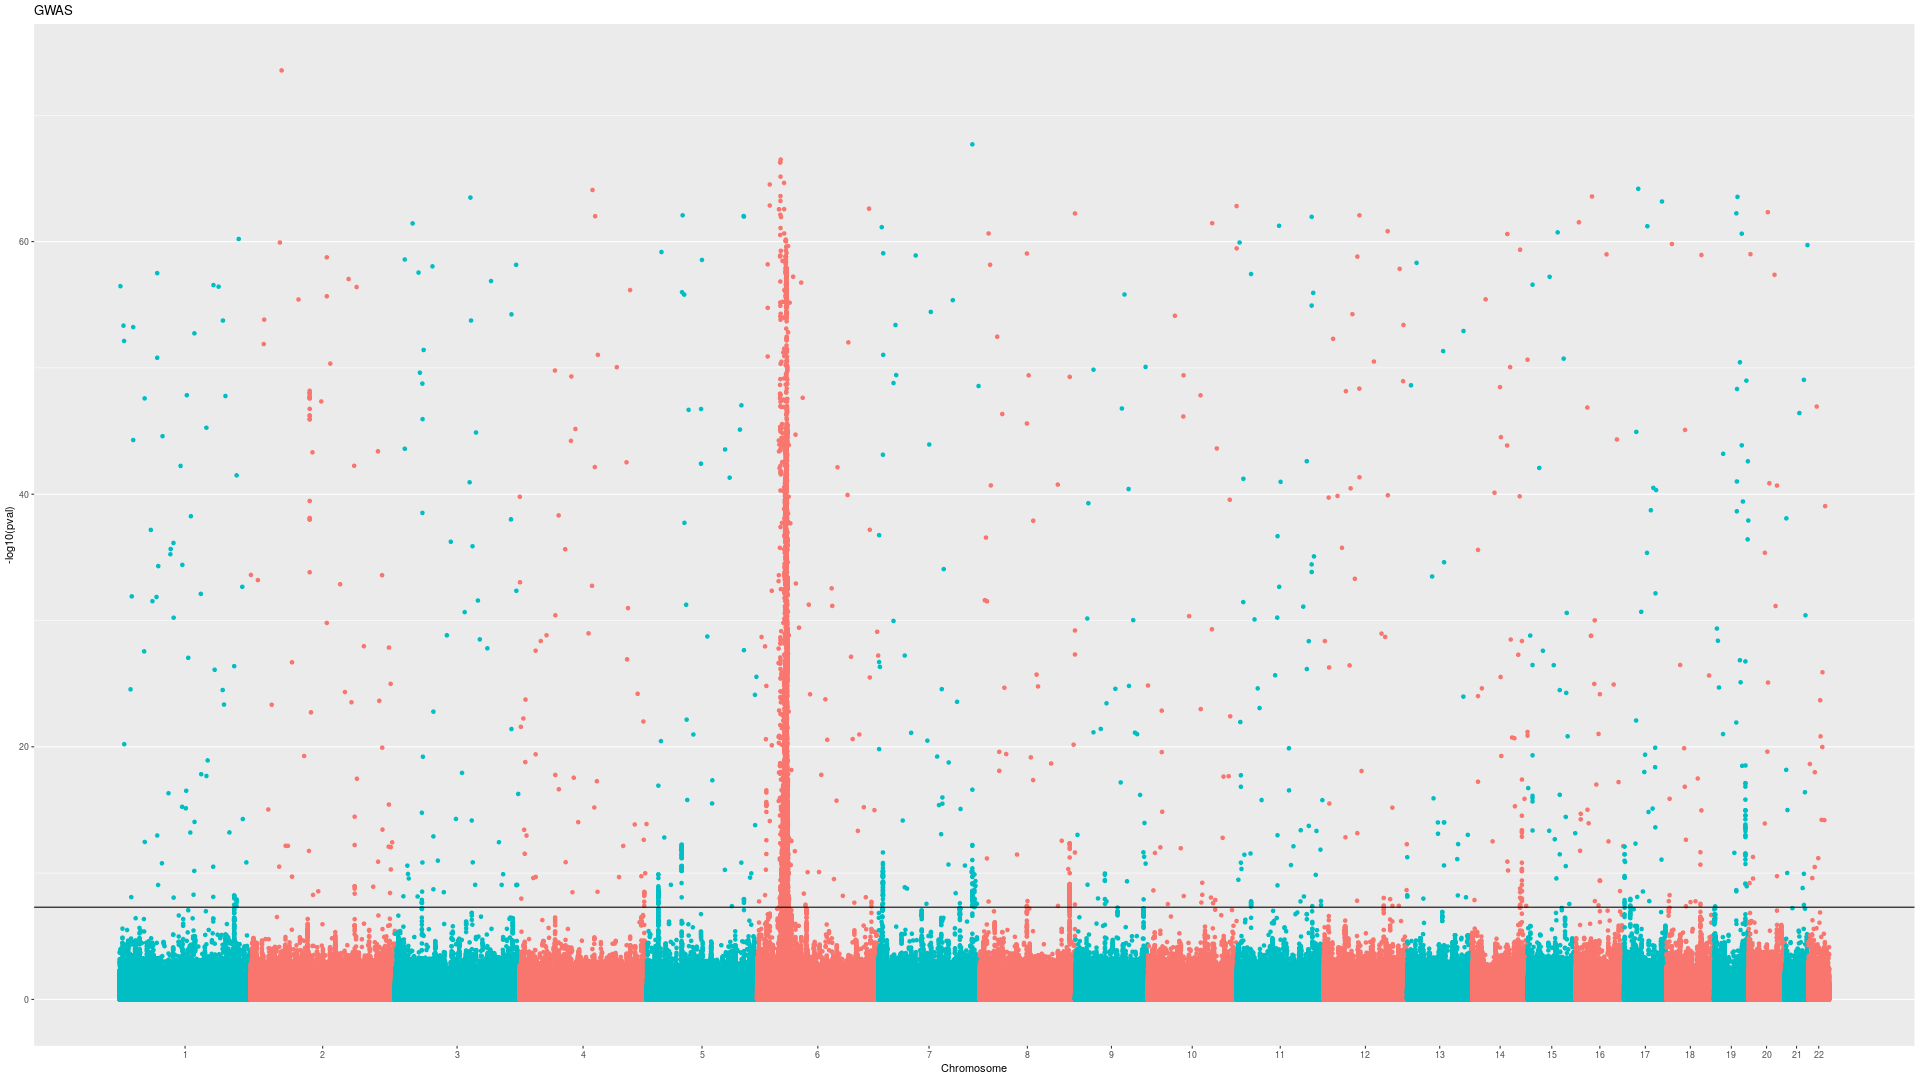
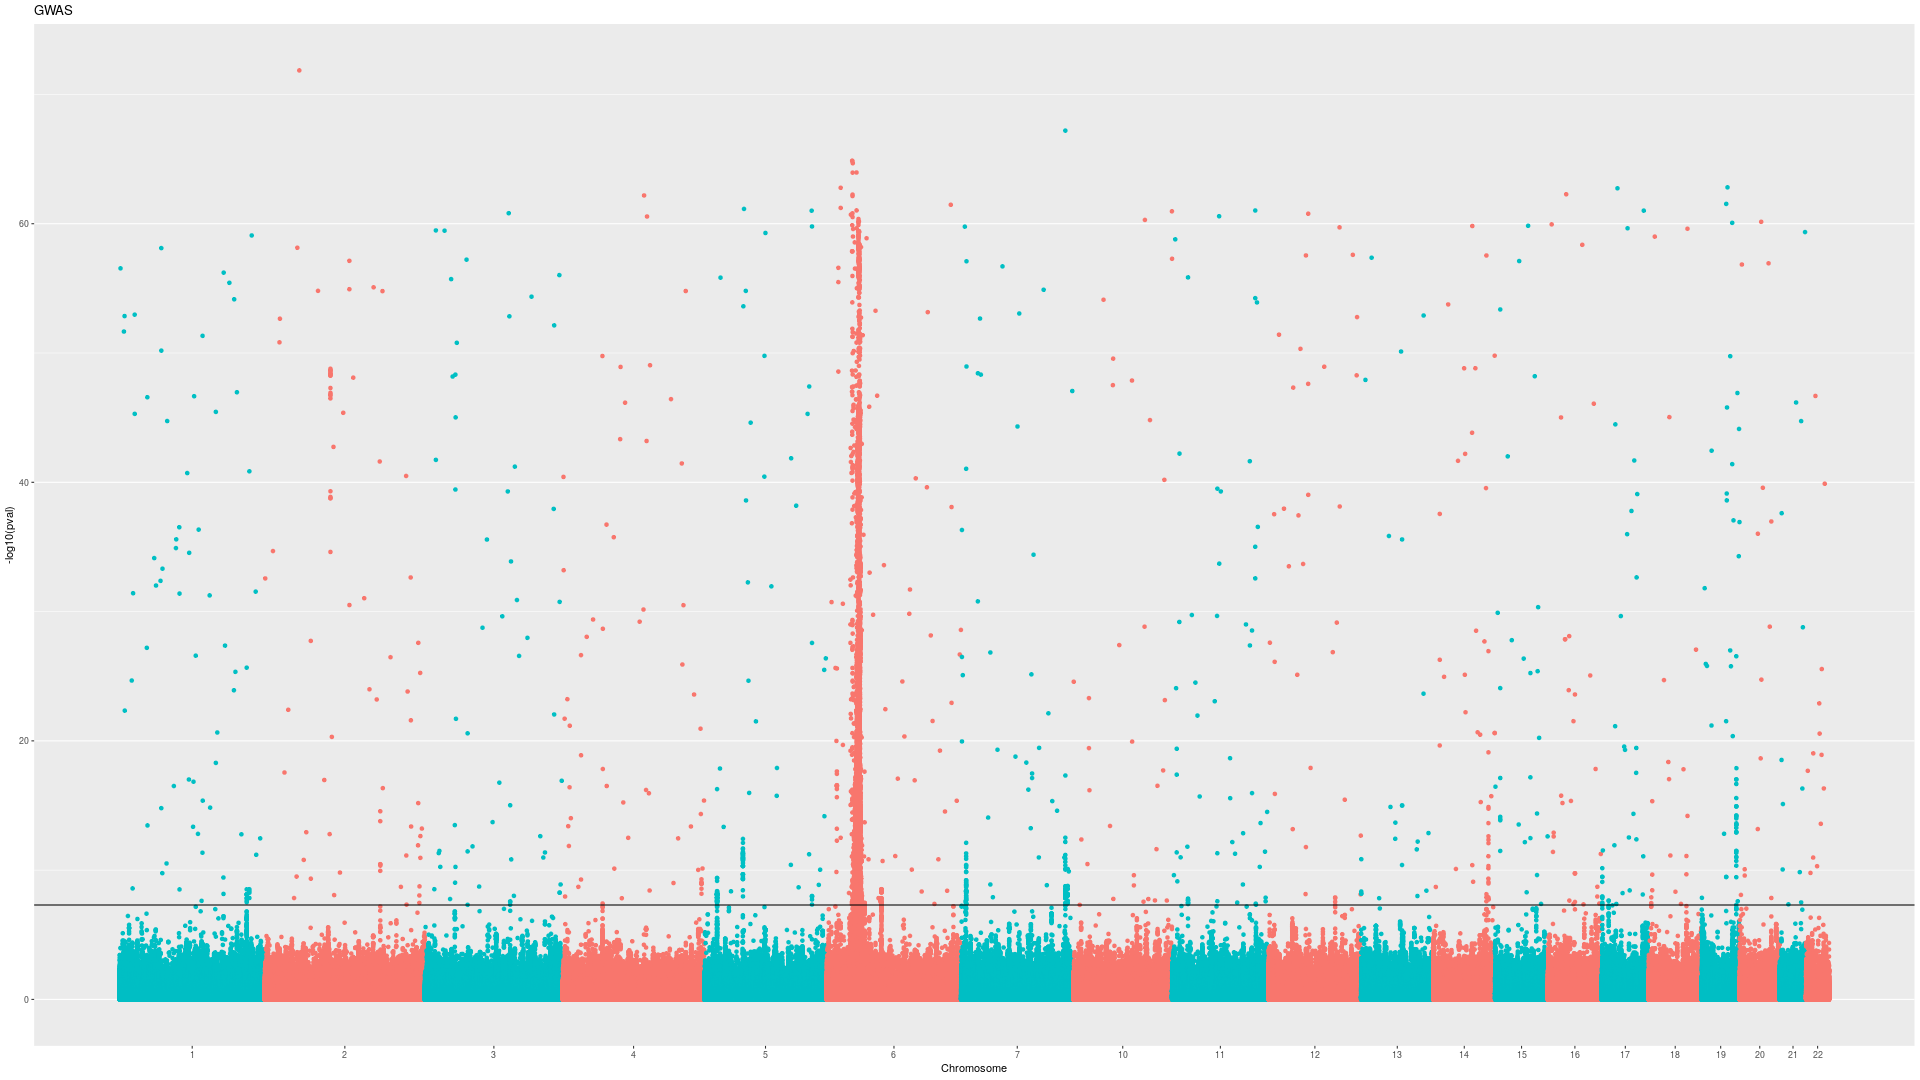
bug IBD removed

Changed region(s): [[0.0312, 0.1833, 1.0, 0.9472]]

diff --git a/run_GWAS.py b/run_GWAS.py
@@ -124,10 +124,10 @@ def QC(settings):
         - QCed files through PLINK
     """
 
-    # Run IBD computation
-    print('Computing IBD')
-    subprocess.call(['bash',settings['sh_script']['IBD.sh']])
-    print("IBD successfully computed")
+    # # Run IBD computation
+    # print('Computing IBD')
+    # subprocess.call(['bash',settings['sh_script']['IBD.sh']])
+    # print("IBD successfully computed")
 
     # Get list of patients to be removed by IBD
     IBD_IDs = list()
@@ -136,20 +136,19 @@ def QC(settings):
         for row in inFile:
             row = row.split('\t')
             row = [r for r in row if r is not '']
-            PI_hat = row[8]
+            PI_hat = float(row[8])
             if float(PI_hat) > settings['IBD_threshold']:
                 IBD_IDs.append(row[0])
        
-    # Get list of patients and cases (remove unknown pheno)
+    # Get list of patients and cases 
     patientList = list()
     with open(settings['plinkFiles']['GWAS'] + settings['plinkFiles']['prefix'] +'.fam','r') as inFile:
         for row in inFile:
             row = row.split()
             pheno = int(row[5].split('\n')[0])
-            if pheno != -9:
-                patientList.append(row[0])
+            patientList.append(row[0])
     
-    # Get list of IBDS patient/cases (unknown pheno not included)
+    # Get list of IBDS patient/cases 
     high_IBD = [ID for ID in np.unique(IBD_IDs) if ID in patientList]
     
     # Check number of cases and controls
@@ -157,8 +156,8 @@ def QC(settings):
     pheno.columns = ['FID', 'IID', 'pheno']
     cases = pheno[pheno.pheno.eq(2)]
     controls = pheno[pheno.pheno.eq(1)]
-    case_count = len([subj for subj in high_IBD if subj in cases['FID']])
-    control_count = len([subj for subj in high_IBD if subj in controls['FID']])
+    case_count = cases[cases["IID"].isin(high_IBD)].shape[0]
+    control_count = controls[controls["IID"].isin(high_IBD)].shape[0]
     print('Number of cases to be excluded by IBD: ' + str(case_count))
     print('Number of controls to be excluded by IBD: ' + str(control_count))
 
@@ -313,26 +312,26 @@ def main():
     # Add current directory to settings 
     settings["directory"]["main"] = os.getcwd()
 
-    # Binarize GWAS files
-    if (not os.listdir(settings['directory']['GWAS_binaries'])):
-        binarizeFiles(settings) 
-    else:
-        print("Files already binarized")
+    # # Binarize GWAS files
+    # if (not os.listdir(settings['directory']['GWAS_binaries'])):
+    #     binarizeFiles(settings) 
+    # else:
+    #     print("Files already binarized")
 
-    # Get list of common SNPs across files 
-    get_SNP(settings)
+    # # Get list of common SNPs across files 
+    # get_SNP(settings)
 
-    # Merge files based on common SNPs
-    mergeFiles(settings)
+    # # Merge files based on common SNPs
+    # mergeFiles(settings)
 
-    # Quality control (QC) + IBD filtering
-    QC(settings)
+    # # Quality control (QC) + IBD filtering
+    # QC(settings)
 
-    # Compute PCA 
-    computePCA(settings)
+    # # Compute PCA 
+    # computePCA(settings)
 
-    # Plot PCA
-    plotPCA(settings, type = "batch")
+    # # Plot PCA
+    # plotPCA(settings, type = "batch")
 
     # Compute case-control matching 
     patientMatching(settings)
